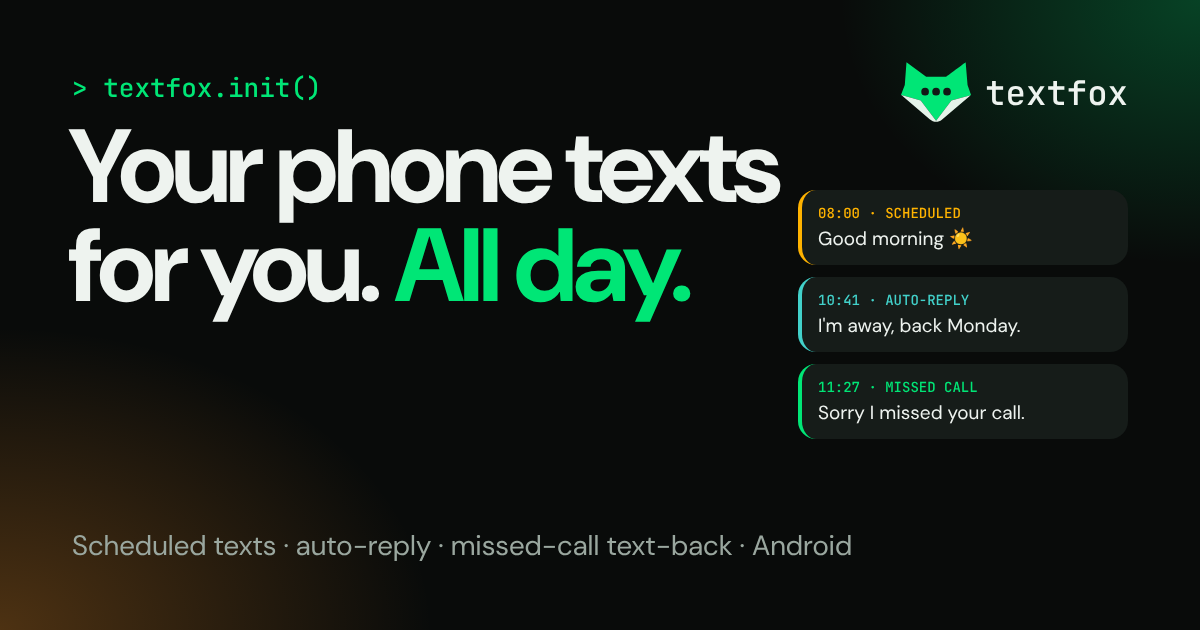
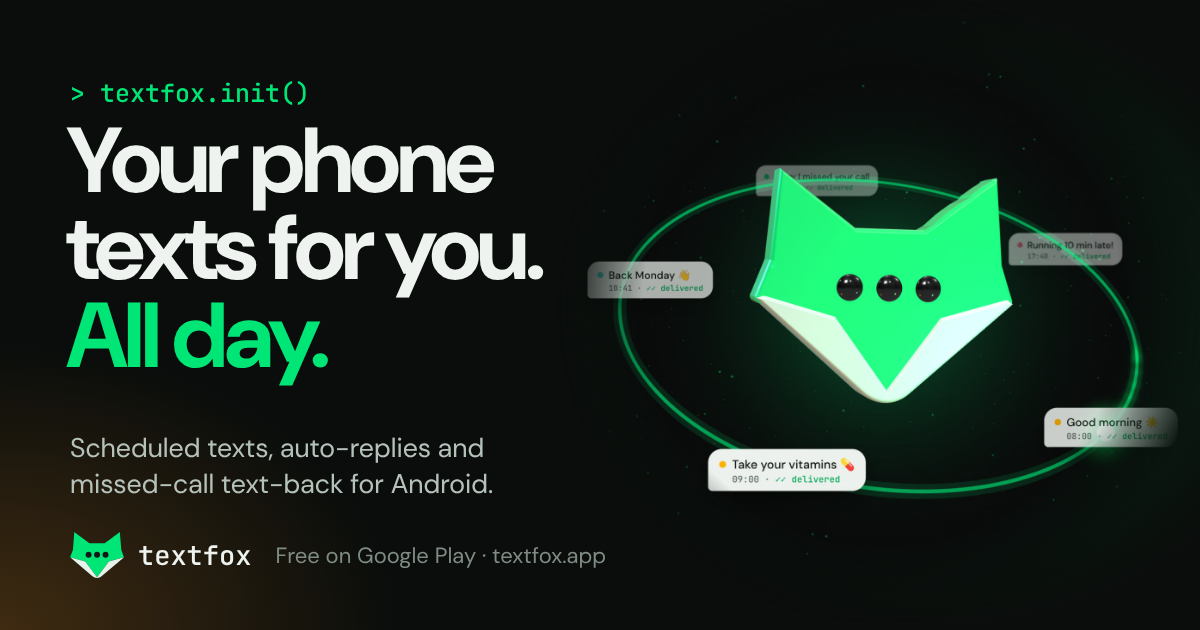
Website: new share image with the 3D fox; share band on every page
- Open Graph / X card image (1200x630) rebuilt from a 2x capture of the
  3D hero: headline left, the 3D fox with its orbit and texts right.
  tools/og.html + tools/og-fox.jpg are the source.
- A 'share' band before the footer on all public pages: LinkedIn,
  Facebook, X, WhatsApp and email as plain links (no third-party
  scripts or tracking), the native share sheet where the browser has
  one, and a copy-link button with feedback.

Claude-Session: https://claude.ai/code/session_01EVGjfv8mY9U6L3GJSjga1s

diff --git a/website/tools/og.html b/website/tools/og.html
@@ -1,20 +1,19 @@
 <!doctype html><meta charset="utf-8">
+<!-- Open Graph image (1200×630). Render with: node tools/render-assets.js. og-fox.jpg is a 2× capture of the 3D hero. -->
 <style>
 @font-face{font-family:D;src:url(../public/assets/fonts/DMSans.woff2)}@font-face{font-family:M;src:url(../public/assets/fonts/JetBrainsMono.woff2)}
-body{margin:0;width:1200px;height:630px;overflow:hidden;background:radial-gradient(60% 80% at 0% 100%,rgba(255,150,40,.28),transparent 60%),radial-gradient(50% 70% at 100% 0%,rgba(0,230,118,.25),transparent 60%),#090B0A;color:#EEF3EF;font-family:D;position:relative}
-.k{position:absolute;left:72px;top:70px;font:500 26px M;color:#00E676}
-h1{position:absolute;left:68px;top:118px;margin:0;font:700 104px/.95 D;letter-spacing:-.045em;width:760px}
+body{margin:0;width:1200px;height:630px;overflow:hidden;background:radial-gradient(55% 75% at 0% 100%,rgba(255,150,40,.22),transparent 60%),radial-gradient(45% 70% at 78% 50%,rgba(0,230,118,.16),transparent 70%),#0A0D0B;color:#EEF3EF;font-family:D;position:relative}
+.fox{position:absolute;right:-8px;top:-10px;width:650px;height:auto;-webkit-mask-image:radial-gradient(closest-side,#000 74%,transparent 100%);mask-image:radial-gradient(closest-side,#000 74%,transparent 100%)}
+.k{position:absolute;left:70px;top:76px;font:500 25px M;color:#00E676}
+h1{position:absolute;left:66px;top:118px;margin:0;font:700 92px/.95 D;letter-spacing:-.045em;width:560px}
 h1 span{color:#00E676}
-p{position:absolute;left:72px;bottom:66px;margin:0;font:400 28px D;color:#9AA79F}
-.clock{position:absolute;right:-20px;bottom:-60px;font:200 330px/1 M;letter-spacing:-.06em;color:transparent;-webkit-text-stroke:2px rgba(0,230,118,.28)}
-.logo{position:absolute;right:72px;top:62px;display:flex;align-items:center;gap:14px;font:500 34px M}
-.logo svg{width:60px;height:60px}
-.log{position:absolute;right:72px;top:190px;width:330px;display:grid;gap:12px}
-.log div{background:#161C19;border-radius:18px;padding:14px 16px;font-size:19px;border-left:4px solid var(--c)}
-.log b{display:block;font:500 14px M;color:var(--c);margin-bottom:4px}
+.sub{position:absolute;left:70px;top:430px;margin:0;font:400 27px/1.35 D;color:#B5C2BA;width:520px}
+.foot{position:absolute;left:70px;bottom:52px;display:flex;align-items:center;gap:14px;font:500 27px M}
+.foot svg{width:54px;height:46px}
+.foot i{font-style:normal;color:#7E8C84;font:400 22px D;margin-left:10px}
 </style>
+<img class="fox" src="og-fox.jpg" alt="">
 <div class="k">&gt; textfox.init()</div>
 <h1>Your phone texts for you. <span>All day.</span></h1>
-<p>Scheduled texts · auto-reply · missed-call text-back · Android</p>
-<div class="logo"><svg viewBox="0 0 354.18 302.05" style="color:#00E676;width:70px;height:60px"><path d="M3.03,167.98l108.55,18.34c18.05,15.38,83.78,26.23,102.7,10.13l136.86-28.13c1.06-.91,4.45-1.28,2.38-4.76l-16.81-47.49L327.15,0l-99.48,74.39h-100.38S27.76,0,27.76,0l-8.57,116.06L.88,163.68c-.59.82-1,1.64-.84,2.21.25.92,1.26,1.41,3,2.1Z" fill="#121815"/><path d="M351.14,168.32c-2.58-.26-5.33.02-8.35,1.16l-87.63,24.45-77.62,102.84-77.78-102.9-88.64-24.75c-3.04-.85-5.58-1.5-8.09-1.14-1.73-.69-2.74-1.18-3-2.1-.16-.57.25-1.38.84-2.21l18.32-47.61L27.76,0l99.53,74.39h100.38S327.15,0,327.15,0l9.56,116.08,16.81,47.49c2.07,3.48-1.32,3.86-2.38,4.76Z" fill="currentColor"/><path d="M351.14,168.32l-144.48,122.95c-18.92,16.1-43.45,13.15-61.5-2.22L3.03,167.98c2.51-.36,5.05.29,8.09,1.14l88.64,24.75,77.78,102.9,77.62-102.84,87.63-24.45c3.03-1.14,5.77-1.43,8.35-1.16Z" fill="#E5F3EA"/><ellipse class="eye" cx="121.96" cy="149.52" rx="19.4" ry="19.4" fill="#121815"/><ellipse class="eye" cx="177.51" cy="149.52" rx="19.4" ry="19.4" fill="#121815"/><ellipse class="eye" cx="233.04" cy="149.52" rx="19.4" ry="19.4" fill="#121815"/></svg>textfox</div>
-<div class="log"><div style="--c:#FFB300"><b>08:00 · SCHEDULED</b>Good morning ☀</div><div style="--c:#42D1CA"><b>10:41 · AUTO-REPLY</b>I'm away, back Monday.</div><div style="--c:#00E676"><b>11:27 · MISSED CALL</b>Sorry I missed your call.</div></div>
+<p class="sub">Scheduled texts, auto-replies and missed-call text-back for Android.</p>
+<div class="foot"><svg viewBox="0 0 354.18 302.05" style="color:#00E676"><path d="M3.03,167.98l108.55,18.34c18.05,15.38,83.78,26.23,102.7,10.13l136.86-28.13c1.06-.91,4.45-1.28,2.38-4.76l-16.81-47.49L327.15,0l-99.48,74.39h-100.38S27.76,0,27.76,0l-8.57,116.06L.88,163.68c-.59.82-1,1.64-.84,2.21.25.92,1.26,1.41,3,2.1Z" fill="#121815"/><path d="M351.14,168.32c-2.58-.26-5.33.02-8.35,1.16l-87.63,24.45-77.62,102.84-77.78-102.9-88.64-24.75c-3.04-.85-5.58-1.5-8.09-1.14-1.73-.69-2.74-1.18-3-2.1-.16-.57.25-1.38.84-2.21l18.32-47.61L27.76,0l99.53,74.39h100.38S327.15,0,327.15,0l9.56,116.08,16.81,47.49c2.07,3.48-1.32,3.86-2.38,4.76Z" fill="currentColor"/><path d="M351.14,168.32l-144.48,122.95c-18.92,16.1-43.45,13.15-61.5-2.22L3.03,167.98c2.51-.36,5.05.29,8.09,1.14l88.64,24.75,77.78,102.9,77.62-102.84,87.63-24.45c3.03-1.14,5.77-1.43,8.35-1.16Z" fill="#E5F3EA"/><ellipse class="eye" cx="121.96" cy="149.52" rx="19.4" ry="19.4" fill="#121815"/><ellipse class="eye" cx="177.51" cy="149.52" rx="19.4" ry="19.4" fill="#121815"/><ellipse class="eye" cx="233.04" cy="149.52" rx="19.4" ry="19.4" fill="#121815"/></svg>textfox<i>Free on Google Play · textfox.app</i></div>

diff --git a/website/public/scheduled-text-messages.html b/website/public/scheduled-text-messages.html
@@ -15,7 +15,7 @@
 <link rel="manifest" href="/site.webmanifest">
 <link rel="preload" href="/assets/fonts/DMSans.woff2" as="font" type="font/woff2" crossorigin>
 <link rel="preload" href="/assets/fonts/JetBrainsMono.woff2" as="font" type="font/woff2" crossorigin>
-<link rel="stylesheet" href="/assets/site.css?v=86f45077">
+<link rel="stylesheet" href="/assets/site.css?v=80408b72">
 <meta property="og:type" content="website">
 <meta property="og:site_name" content="TextFox">
 <meta property="og:locale" content="en_US">
@@ -117,6 +117,15 @@
 <section class="final"><div class="wrap"><div class="panel"><h2>Set it up once.<br>It just runs.</h2>
 <p>Free for Android 8.0 and newer. Runs on your phone: no account, no ads, no tracking.</p><div class="cta-row"><a class="btn btn-g play-btn" href="https://play.google.com/apps/testing/app.kodekid.automatiq" rel="noopener"><svg width="18" height="20" viewBox="0 0 16 18" aria-hidden="true"><path d="M1 1.2v15.6c0 .5.5.8.9.6L15 9.6a.7.7 0 0 0 0-1.2L1.9.6C1.5.4 1 .7 1 1.2Z" fill="currentColor"/></svg><span><small>Get it on</small>Google Play</span></a></div><p class="cta-note">Early access on Google Play · Free · Android 8.0+</p></div></div></section>
 
+<section class="share" aria-labelledby="share-h"><div class="wrap"><div class="share-in">
+  <div><p class="kicker">// share</p><h2 class="h3" id="share-h">Know someone who's always running late?</h2><p class="body">Send them TextFox. It's free, and it might save them a lot of typing.</p></div>
+  <div class="share-btns">
+    <button class="sh sh-native" type="button" data-share="https://www.textfox.app/scheduled-text-messages" hidden><svg viewBox="0 0 24 24" aria-hidden="true" class="st"><path d="M12 3v12M7.5 7.5 12 3l4.5 4.5M5 12v7.5h14V12"/></svg>Share</button>
+    <a class="sh" style="--b:#0A66C2" href="https://www.linkedin.com/sharing/share-offsite/?url=https%3A%2F%2Fwww.textfox.app%2Fscheduled-text-messages" target="_blank" rel="noopener"><svg viewBox="0 0 24 24" aria-hidden="true"><path d="M4.98 3.5a2.5 2.5 0 1 1 0 5 2.5 2.5 0 0 1 0-5zM3 9h4v12H3zM9 9h3.8v1.7h.05c.53-1 1.83-2.05 3.77-2.05C20.6 8.65 21 11.3 21 14.7V21h-4v-5.6c0-1.34-.02-3.06-1.86-3.06-1.87 0-2.15 1.46-2.15 2.96V21H9z"/></svg>LinkedIn</a><a class="sh" style="--b:#1877F2" href="https://www.facebook.com/sharer/sharer.php?u=https%3A%2F%2Fwww.textfox.app%2Fscheduled-text-messages" target="_blank" rel="noopener"><svg viewBox="0 0 24 24" aria-hidden="true"><path d="M14 8.5V6.8c0-.8.5-1 .9-1H17V2.1L14.1 2C10.9 2 10.2 4.4 10.2 6v2.5H8V12h2.2v10H14V12h2.9l.4-3.5z"/></svg>Facebook</a><a class="sh" style="--b:#E7ECE9" href="https://x.com/intent/post?text=TextFox%20sends%20your%20texts%20for%20you%3A%20scheduled%20SMS%2C%20auto-replies%20and%20missed-call%20text-back%20for%20Android.&url=https%3A%2F%2Fwww.textfox.app%2Fscheduled-text-messages" target="_blank" rel="noopener"><svg viewBox="0 0 24 24" aria-hidden="true"><path d="M17.8 3H21l-7 8 8.2 10h-6.4l-5-6.2L5 21H1.8l7.5-8.6L1.5 3H8l4.5 5.7zm-1.1 16h1.8L7.3 4.9H5.4z"/></svg>X</a><a class="sh" style="--b:#25D366" href="https://wa.me/?text=TextFox%20sends%20your%20texts%20for%20you%3A%20scheduled%20SMS%2C%20auto-replies%20and%20missed-call%20text-back%20for%20Android.%20https%3A//www.textfox.app/scheduled-text-messages" target="_blank" rel="noopener"><svg viewBox="0 0 24 24" aria-hidden="true"><path d="M12 2a10 10 0 0 0-8.6 15.1L2 22l5-1.3A10 10 0 1 0 12 2zm5.2 13.9c-.2.6-1.3 1.2-1.8 1.2-.5.1-1 .2-3.3-.7-2.8-1.1-4.5-3.9-4.7-4.1-.1-.2-1.1-1.5-1.1-2.9s.7-2.1 1-2.4c.3-.3.6-.3.8-.3h.6c.2 0 .4 0 .6.5l.9 2.1c.1.2.1.4 0 .6l-.4.6-.4.4c-.1.2-.3.3-.1.6.2.3.8 1.3 1.7 2.1 1.2 1 2.1 1.3 2.4 1.5.3.1.5.1.6-.1l.9-1c.2-.3.4-.2.7-.1l2 1c.3.1.5.2.5.3.1.2.1.6-.1 1.2z"/></svg>WhatsApp</a>
+    <a class="sh" style="--b:#9AA79F" href="mailto:?subject=Have%20a%20look%20at%20TextFox&body=TextFox%20sends%20your%20texts%20for%20you%3A%20scheduled%20SMS%2C%20auto-replies%20and%20missed-call%20text-back%20for%20Android.%0A%0Ahttps%3A//www.textfox.app/scheduled-text-messages"><svg viewBox="0 0 24 24" aria-hidden="true" class="st"><rect x="3" y="5" width="18" height="14" rx="2.5"/><path d="m3.5 6.5 8.5 7 8.5-7"/></svg>Email</a>
+    <button class="sh" style="--b:#00E676" type="button" data-copy="https://www.textfox.app/scheduled-text-messages"><svg viewBox="0 0 24 24" aria-hidden="true" class="st"><path d="M10 14a4.5 4.5 0 0 0 6.4 0l3-3a4.5 4.5 0 0 0-6.4-6.4l-1 1"/><path d="M14 10a4.5 4.5 0 0 0-6.4 0l-3 3a4.5 4.5 0 0 0 6.4 6.4l1-1"/></svg><span>Copy link</span></button>
+  </div>
+</div></div></section>
 </main>
 <footer><div class="wrap">
   <div class="foot">
@@ -127,6 +136,6 @@
   </div>
   <div class="legal"><span>© 2026 TextFox · <a href="https://www.kodekid.app" rel="noopener">kodekid.app</a></span><span>No cookies. No tracking.</span></div>
 </div></footer>
-<script src="/assets/site.js?v=37aabe8c" defer></script>
+<script src="/assets/site.js?v=e24dd10f" defer></script>
 </body>
 </html>

diff --git a/website/public/missed-call-text-back.html b/website/public/missed-call-text-back.html
@@ -15,7 +15,7 @@
 <link rel="manifest" href="/site.webmanifest">
 <link rel="preload" href="/assets/fonts/DMSans.woff2" as="font" type="font/woff2" crossorigin>
 <link rel="preload" href="/assets/fonts/JetBrainsMono.woff2" as="font" type="font/woff2" crossorigin>
-<link rel="stylesheet" href="/assets/site.css?v=86f45077">
+<link rel="stylesheet" href="/assets/site.css?v=80408b72">
 <meta property="og:type" content="website">
 <meta property="og:site_name" content="TextFox">
 <meta property="og:locale" content="en_US">
@@ -96,6 +96,15 @@
 <section class="final"><div class="wrap"><div class="panel"><h2>Set it up once.<br>It just runs.</h2>
 <p>Free for Android 8.0 and newer. Runs on your phone: no account, no ads, no tracking.</p><div class="cta-row"><a class="btn btn-g play-btn" href="https://play.google.com/apps/testing/app.kodekid.automatiq" rel="noopener"><svg width="18" height="20" viewBox="0 0 16 18" aria-hidden="true"><path d="M1 1.2v15.6c0 .5.5.8.9.6L15 9.6a.7.7 0 0 0 0-1.2L1.9.6C1.5.4 1 .7 1 1.2Z" fill="currentColor"/></svg><span><small>Get it on</small>Google Play</span></a></div><p class="cta-note">Early access on Google Play · Free · Android 8.0+</p></div></div></section>
 
+<section class="share" aria-labelledby="share-h"><div class="wrap"><div class="share-in">
+  <div><p class="kicker">// share</p><h2 class="h3" id="share-h">Know someone who's always running late?</h2><p class="body">Send them TextFox. It's free, and it might save them a lot of typing.</p></div>
+  <div class="share-btns">
+    <button class="sh sh-native" type="button" data-share="https://www.textfox.app/missed-call-text-back" hidden><svg viewBox="0 0 24 24" aria-hidden="true" class="st"><path d="M12 3v12M7.5 7.5 12 3l4.5 4.5M5 12v7.5h14V12"/></svg>Share</button>
+    <a class="sh" style="--b:#0A66C2" href="https://www.linkedin.com/sharing/share-offsite/?url=https%3A%2F%2Fwww.textfox.app%2Fmissed-call-text-back" target="_blank" rel="noopener"><svg viewBox="0 0 24 24" aria-hidden="true"><path d="M4.98 3.5a2.5 2.5 0 1 1 0 5 2.5 2.5 0 0 1 0-5zM3 9h4v12H3zM9 9h3.8v1.7h.05c.53-1 1.83-2.05 3.77-2.05C20.6 8.65 21 11.3 21 14.7V21h-4v-5.6c0-1.34-.02-3.06-1.86-3.06-1.87 0-2.15 1.46-2.15 2.96V21H9z"/></svg>LinkedIn</a><a class="sh" style="--b:#1877F2" href="https://www.facebook.com/sharer/sharer.php?u=https%3A%2F%2Fwww.textfox.app%2Fmissed-call-text-back" target="_blank" rel="noopener"><svg viewBox="0 0 24 24" aria-hidden="true"><path d="M14 8.5V6.8c0-.8.5-1 .9-1H17V2.1L14.1 2C10.9 2 10.2 4.4 10.2 6v2.5H8V12h2.2v10H14V12h2.9l.4-3.5z"/></svg>Facebook</a><a class="sh" style="--b:#E7ECE9" href="https://x.com/intent/post?text=TextFox%20sends%20your%20texts%20for%20you%3A%20scheduled%20SMS%2C%20auto-replies%20and%20missed-call%20text-back%20for%20Android.&url=https%3A%2F%2Fwww.textfox.app%2Fmissed-call-text-back" target="_blank" rel="noopener"><svg viewBox="0 0 24 24" aria-hidden="true"><path d="M17.8 3H21l-7 8 8.2 10h-6.4l-5-6.2L5 21H1.8l7.5-8.6L1.5 3H8l4.5 5.7zm-1.1 16h1.8L7.3 4.9H5.4z"/></svg>X</a><a class="sh" style="--b:#25D366" href="https://wa.me/?text=TextFox%20sends%20your%20texts%20for%20you%3A%20scheduled%20SMS%2C%20auto-replies%20and%20missed-call%20text-back%20for%20Android.%20https%3A//www.textfox.app/missed-call-text-back" target="_blank" rel="noopener"><svg viewBox="0 0 24 24" aria-hidden="true"><path d="M12 2a10 10 0 0 0-8.6 15.1L2 22l5-1.3A10 10 0 1 0 12 2zm5.2 13.9c-.2.6-1.3 1.2-1.8 1.2-.5.1-1 .2-3.3-.7-2.8-1.1-4.5-3.9-4.7-4.1-.1-.2-1.1-1.5-1.1-2.9s.7-2.1 1-2.4c.3-.3.6-.3.8-.3h.6c.2 0 .4 0 .6.5l.9 2.1c.1.2.1.4 0 .6l-.4.6-.4.4c-.1.2-.3.3-.1.6.2.3.8 1.3 1.7 2.1 1.2 1 2.1 1.3 2.4 1.5.3.1.5.1.6-.1l.9-1c.2-.3.4-.2.7-.1l2 1c.3.1.5.2.5.3.1.2.1.6-.1 1.2z"/></svg>WhatsApp</a>
+    <a class="sh" style="--b:#9AA79F" href="mailto:?subject=Have%20a%20look%20at%20TextFox&body=TextFox%20sends%20your%20texts%20for%20you%3A%20scheduled%20SMS%2C%20auto-replies%20and%20missed-call%20text-back%20for%20Android.%0A%0Ahttps%3A//www.textfox.app/missed-call-text-back"><svg viewBox="0 0 24 24" aria-hidden="true" class="st"><rect x="3" y="5" width="18" height="14" rx="2.5"/><path d="m3.5 6.5 8.5 7 8.5-7"/></svg>Email</a>
+    <button class="sh" style="--b:#00E676" type="button" data-copy="https://www.textfox.app/missed-call-text-back"><svg viewBox="0 0 24 24" aria-hidden="true" class="st"><path d="M10 14a4.5 4.5 0 0 0 6.4 0l3-3a4.5 4.5 0 0 0-6.4-6.4l-1 1"/><path d="M14 10a4.5 4.5 0 0 0-6.4 0l-3 3a4.5 4.5 0 0 0 6.4 6.4l1-1"/></svg><span>Copy link</span></button>
+  </div>
+</div></div></section>
 </main>
 <footer><div class="wrap">
   <div class="foot">
@@ -106,6 +115,6 @@
   </div>
   <div class="legal"><span>© 2026 TextFox · <a href="https://www.kodekid.app" rel="noopener">kodekid.app</a></span><span>No cookies. No tracking.</span></div>
 </div></footer>
-<script src="/assets/site.js?v=37aabe8c" defer></script>
+<script src="/assets/site.js?v=e24dd10f" defer></script>
 </body>
 </html>

diff --git a/website/public/one-tap-text-widget.html b/website/public/one-tap-text-widget.html
@@ -15,7 +15,7 @@
 <link rel="manifest" href="/site.webmanifest">
 <link rel="preload" href="/assets/fonts/DMSans.woff2" as="font" type="font/woff2" crossorigin>
 <link rel="preload" href="/assets/fonts/JetBrainsMono.woff2" as="font" type="font/woff2" crossorigin>
-<link rel="stylesheet" href="/assets/site.css?v=86f45077">
+<link rel="stylesheet" href="/assets/site.css?v=80408b72">
 <meta property="og:type" content="website">
 <meta property="og:site_name" content="TextFox">
 <meta property="og:locale" content="en_US">
@@ -97,6 +97,15 @@
 <section class="final"><div class="wrap"><div class="panel"><h2>Set it up once.<br>It just runs.</h2>
 <p>Free for Android 8.0 and newer. Runs on your phone: no account, no ads, no tracking.</p><div class="cta-row"><a class="btn btn-g play-btn" href="https://play.google.com/apps/testing/app.kodekid.automatiq" rel="noopener"><svg width="18" height="20" viewBox="0 0 16 18" aria-hidden="true"><path d="M1 1.2v15.6c0 .5.5.8.9.6L15 9.6a.7.7 0 0 0 0-1.2L1.9.6C1.5.4 1 .7 1 1.2Z" fill="currentColor"/></svg><span><small>Get it on</small>Google Play</span></a></div><p class="cta-note">Early access on Google Play · Free · Android 8.0+</p></div></div></section>
 
+<section class="share" aria-labelledby="share-h"><div class="wrap"><div class="share-in">
+  <div><p class="kicker">// share</p><h2 class="h3" id="share-h">Know someone who's always running late?</h2><p class="body">Send them TextFox. It's free, and it might save them a lot of typing.</p></div>
+  <div class="share-btns">
+    <button class="sh sh-native" type="button" data-share="https://www.textfox.app/one-tap-text-widget" hidden><svg viewBox="0 0 24 24" aria-hidden="true" class="st"><path d="M12 3v12M7.5 7.5 12 3l4.5 4.5M5 12v7.5h14V12"/></svg>Share</button>
+    <a class="sh" style="--b:#0A66C2" href="https://www.linkedin.com/sharing/share-offsite/?url=https%3A%2F%2Fwww.textfox.app%2Fone-tap-text-widget" target="_blank" rel="noopener"><svg viewBox="0 0 24 24" aria-hidden="true"><path d="M4.98 3.5a2.5 2.5 0 1 1 0 5 2.5 2.5 0 0 1 0-5zM3 9h4v12H3zM9 9h3.8v1.7h.05c.53-1 1.83-2.05 3.77-2.05C20.6 8.65 21 11.3 21 14.7V21h-4v-5.6c0-1.34-.02-3.06-1.86-3.06-1.87 0-2.15 1.46-2.15 2.96V21H9z"/></svg>LinkedIn</a><a class="sh" style="--b:#1877F2" href="https://www.facebook.com/sharer/sharer.php?u=https%3A%2F%2Fwww.textfox.app%2Fone-tap-text-widget" target="_blank" rel="noopener"><svg viewBox="0 0 24 24" aria-hidden="true"><path d="M14 8.5V6.8c0-.8.5-1 .9-1H17V2.1L14.1 2C10.9 2 10.2 4.4 10.2 6v2.5H8V12h2.2v10H14V12h2.9l.4-3.5z"/></svg>Facebook</a><a class="sh" style="--b:#E7ECE9" href="https://x.com/intent/post?text=TextFox%20sends%20your%20texts%20for%20you%3A%20scheduled%20SMS%2C%20auto-replies%20and%20missed-call%20text-back%20for%20Android.&url=https%3A%2F%2Fwww.textfox.app%2Fone-tap-text-widget" target="_blank" rel="noopener"><svg viewBox="0 0 24 24" aria-hidden="true"><path d="M17.8 3H21l-7 8 8.2 10h-6.4l-5-6.2L5 21H1.8l7.5-8.6L1.5 3H8l4.5 5.7zm-1.1 16h1.8L7.3 4.9H5.4z"/></svg>X</a><a class="sh" style="--b:#25D366" href="https://wa.me/?text=TextFox%20sends%20your%20texts%20for%20you%3A%20scheduled%20SMS%2C%20auto-replies%20and%20missed-call%20text-back%20for%20Android.%20https%3A//www.textfox.app/one-tap-text-widget" target="_blank" rel="noopener"><svg viewBox="0 0 24 24" aria-hidden="true"><path d="M12 2a10 10 0 0 0-8.6 15.1L2 22l5-1.3A10 10 0 1 0 12 2zm5.2 13.9c-.2.6-1.3 1.2-1.8 1.2-.5.1-1 .2-3.3-.7-2.8-1.1-4.5-3.9-4.7-4.1-.1-.2-1.1-1.5-1.1-2.9s.7-2.1 1-2.4c.3-.3.6-.3.8-.3h.6c.2 0 .4 0 .6.5l.9 2.1c.1.2.1.4 0 .6l-.4.6-.4.4c-.1.2-.3.3-.1.6.2.3.8 1.3 1.7 2.1 1.2 1 2.1 1.3 2.4 1.5.3.1.5.1.6-.1l.9-1c.2-.3.4-.2.7-.1l2 1c.3.1.5.2.5.3.1.2.1.6-.1 1.2z"/></svg>WhatsApp</a>
+    <a class="sh" style="--b:#9AA79F" href="mailto:?subject=Have%20a%20look%20at%20TextFox&body=TextFox%20sends%20your%20texts%20for%20you%3A%20scheduled%20SMS%2C%20auto-replies%20and%20missed-call%20text-back%20for%20Android.%0A%0Ahttps%3A//www.textfox.app/one-tap-text-widget"><svg viewBox="0 0 24 24" aria-hidden="true" class="st"><rect x="3" y="5" width="18" height="14" rx="2.5"/><path d="m3.5 6.5 8.5 7 8.5-7"/></svg>Email</a>
+    <button class="sh" style="--b:#00E676" type="button" data-copy="https://www.textfox.app/one-tap-text-widget"><svg viewBox="0 0 24 24" aria-hidden="true" class="st"><path d="M10 14a4.5 4.5 0 0 0 6.4 0l3-3a4.5 4.5 0 0 0-6.4-6.4l-1 1"/><path d="M14 10a4.5 4.5 0 0 0-6.4 0l-3 3a4.5 4.5 0 0 0 6.4 6.4l1-1"/></svg><span>Copy link</span></button>
+  </div>
+</div></div></section>
 </main>
 <footer><div class="wrap">
   <div class="foot">
@@ -107,6 +116,6 @@
   </div>
   <div class="legal"><span>© 2026 TextFox · <a href="https://www.kodekid.app" rel="noopener">kodekid.app</a></span><span>No cookies. No tracking.</span></div>
 </div></footer>
-<script src="/assets/site.js?v=37aabe8c" defer></script>
+<script src="/assets/site.js?v=e24dd10f" defer></script>
 </body>
 </html>

diff --git a/website/public/auto-reply-sms.html b/website/public/auto-reply-sms.html
@@ -15,7 +15,7 @@
 <link rel="manifest" href="/site.webmanifest">
 <link rel="preload" href="/assets/fonts/DMSans.woff2" as="font" type="font/woff2" crossorigin>
 <link rel="preload" href="/assets/fonts/JetBrainsMono.woff2" as="font" type="font/woff2" crossorigin>
-<link rel="stylesheet" href="/assets/site.css?v=86f45077">
+<link rel="stylesheet" href="/assets/site.css?v=80408b72">
 <meta property="og:type" content="website">
 <meta property="og:site_name" content="TextFox">
 <meta property="og:locale" content="en_US">
@@ -98,6 +98,15 @@
 <section class="final"><div class="wrap"><div class="panel"><h2>Set it up once.<br>It just runs.</h2>
 <p>Free for Android 8.0 and newer. Runs on your phone: no account, no ads, no tracking.</p><div class="cta-row"><a class="btn btn-g play-btn" href="https://play.google.com/apps/testing/app.kodekid.automatiq" rel="noopener"><svg width="18" height="20" viewBox="0 0 16 18" aria-hidden="true"><path d="M1 1.2v15.6c0 .5.5.8.9.6L15 9.6a.7.7 0 0 0 0-1.2L1.9.6C1.5.4 1 .7 1 1.2Z" fill="currentColor"/></svg><span><small>Get it on</small>Google Play</span></a></div><p class="cta-note">Early access on Google Play · Free · Android 8.0+</p></div></div></section>
 
+<section class="share" aria-labelledby="share-h"><div class="wrap"><div class="share-in">
+  <div><p class="kicker">// share</p><h2 class="h3" id="share-h">Know someone who's always running late?</h2><p class="body">Send them TextFox. It's free, and it might save them a lot of typing.</p></div>
+  <div class="share-btns">
+    <button class="sh sh-native" type="button" data-share="https://www.textfox.app/auto-reply-sms" hidden><svg viewBox="0 0 24 24" aria-hidden="true" class="st"><path d="M12 3v12M7.5 7.5 12 3l4.5 4.5M5 12v7.5h14V12"/></svg>Share</button>
+    <a class="sh" style="--b:#0A66C2" href="https://www.linkedin.com/sharing/share-offsite/?url=https%3A%2F%2Fwww.textfox.app%2Fauto-reply-sms" target="_blank" rel="noopener"><svg viewBox="0 0 24 24" aria-hidden="true"><path d="M4.98 3.5a2.5 2.5 0 1 1 0 5 2.5 2.5 0 0 1 0-5zM3 9h4v12H3zM9 9h3.8v1.7h.05c.53-1 1.83-2.05 3.77-2.05C20.6 8.65 21 11.3 21 14.7V21h-4v-5.6c0-1.34-.02-3.06-1.86-3.06-1.87 0-2.15 1.46-2.15 2.96V21H9z"/></svg>LinkedIn</a><a class="sh" style="--b:#1877F2" href="https://www.facebook.com/sharer/sharer.php?u=https%3A%2F%2Fwww.textfox.app%2Fauto-reply-sms" target="_blank" rel="noopener"><svg viewBox="0 0 24 24" aria-hidden="true"><path d="M14 8.5V6.8c0-.8.5-1 .9-1H17V2.1L14.1 2C10.9 2 10.2 4.4 10.2 6v2.5H8V12h2.2v10H14V12h2.9l.4-3.5z"/></svg>Facebook</a><a class="sh" style="--b:#E7ECE9" href="https://x.com/intent/post?text=TextFox%20sends%20your%20texts%20for%20you%3A%20scheduled%20SMS%2C%20auto-replies%20and%20missed-call%20text-back%20for%20Android.&url=https%3A%2F%2Fwww.textfox.app%2Fauto-reply-sms" target="_blank" rel="noopener"><svg viewBox="0 0 24 24" aria-hidden="true"><path d="M17.8 3H21l-7 8 8.2 10h-6.4l-5-6.2L5 21H1.8l7.5-8.6L1.5 3H8l4.5 5.7zm-1.1 16h1.8L7.3 4.9H5.4z"/></svg>X</a><a class="sh" style="--b:#25D366" href="https://wa.me/?text=TextFox%20sends%20your%20texts%20for%20you%3A%20scheduled%20SMS%2C%20auto-replies%20and%20missed-call%20text-back%20for%20Android.%20https%3A//www.textfox.app/auto-reply-sms" target="_blank" rel="noopener"><svg viewBox="0 0 24 24" aria-hidden="true"><path d="M12 2a10 10 0 0 0-8.6 15.1L2 22l5-1.3A10 10 0 1 0 12 2zm5.2 13.9c-.2.6-1.3 1.2-1.8 1.2-.5.1-1 .2-3.3-.7-2.8-1.1-4.5-3.9-4.7-4.1-.1-.2-1.1-1.5-1.1-2.9s.7-2.1 1-2.4c.3-.3.6-.3.8-.3h.6c.2 0 .4 0 .6.5l.9 2.1c.1.2.1.4 0 .6l-.4.6-.4.4c-.1.2-.3.3-.1.6.2.3.8 1.3 1.7 2.1 1.2 1 2.1 1.3 2.4 1.5.3.1.5.1.6-.1l.9-1c.2-.3.4-.2.7-.1l2 1c.3.1.5.2.5.3.1.2.1.6-.1 1.2z"/></svg>WhatsApp</a>
+    <a class="sh" style="--b:#9AA79F" href="mailto:?subject=Have%20a%20look%20at%20TextFox&body=TextFox%20sends%20your%20texts%20for%20you%3A%20scheduled%20SMS%2C%20auto-replies%20and%20missed-call%20text-back%20for%20Android.%0A%0Ahttps%3A//www.textfox.app/auto-reply-sms"><svg viewBox="0 0 24 24" aria-hidden="true" class="st"><rect x="3" y="5" width="18" height="14" rx="2.5"/><path d="m3.5 6.5 8.5 7 8.5-7"/></svg>Email</a>
+    <button class="sh" style="--b:#00E676" type="button" data-copy="https://www.textfox.app/auto-reply-sms"><svg viewBox="0 0 24 24" aria-hidden="true" class="st"><path d="M10 14a4.5 4.5 0 0 0 6.4 0l3-3a4.5 4.5 0 0 0-6.4-6.4l-1 1"/><path d="M14 10a4.5 4.5 0 0 0-6.4 0l-3 3a4.5 4.5 0 0 0 6.4 6.4l1-1"/></svg><span>Copy link</span></button>
+  </div>
+</div></div></section>
 </main>
 <footer><div class="wrap">
   <div class="foot">
@@ -108,6 +117,6 @@
   </div>
   <div class="legal"><span>© 2026 TextFox · <a href="https://www.kodekid.app" rel="noopener">kodekid.app</a></span><span>No cookies. No tracking.</span></div>
 </div></footer>
-<script src="/assets/site.js?v=37aabe8c" defer></script>
+<script src="/assets/site.js?v=e24dd10f" defer></script>
 </body>
 </html>

diff --git a/website/public/index.html b/website/public/index.html
@@ -15,7 +15,7 @@
 <link rel="manifest" href="/site.webmanifest">
 <link rel="preload" href="/assets/fonts/DMSans.woff2" as="font" type="font/woff2" crossorigin>
 <link rel="preload" href="/assets/fonts/JetBrainsMono.woff2" as="font" type="font/woff2" crossorigin>
-<link rel="stylesheet" href="/assets/site.css?v=86f45077">
+<link rel="stylesheet" href="/assets/site.css?v=80408b72">
 <link rel="modulepreload" href="/assets/js/three/three.module.min.js">
 <link rel="modulepreload" href="/assets/js/three/SVGLoader.min.js">
 <link rel="modulepreload" href="/assets/js/three/RoomEnvironment.min.js">
@@ -243,6 +243,15 @@
   </div>
 </section>
 
+<section class="share" aria-labelledby="share-h"><div class="wrap"><div class="share-in">
+  <div><p class="kicker">// share</p><h2 class="h3" id="share-h">Know someone who's always running late?</h2><p class="body">Send them TextFox. It's free, and it might save them a lot of typing.</p></div>
+  <div class="share-btns">
+    <button class="sh sh-native" type="button" data-share="https://www.textfox.app/" hidden><svg viewBox="0 0 24 24" aria-hidden="true" class="st"><path d="M12 3v12M7.5 7.5 12 3l4.5 4.5M5 12v7.5h14V12"/></svg>Share</button>
+    <a class="sh" style="--b:#0A66C2" href="https://www.linkedin.com/sharing/share-offsite/?url=https%3A%2F%2Fwww.textfox.app%2F" target="_blank" rel="noopener"><svg viewBox="0 0 24 24" aria-hidden="true"><path d="M4.98 3.5a2.5 2.5 0 1 1 0 5 2.5 2.5 0 0 1 0-5zM3 9h4v12H3zM9 9h3.8v1.7h.05c.53-1 1.83-2.05 3.77-2.05C20.6 8.65 21 11.3 21 14.7V21h-4v-5.6c0-1.34-.02-3.06-1.86-3.06-1.87 0-2.15 1.46-2.15 2.96V21H9z"/></svg>LinkedIn</a><a class="sh" style="--b:#1877F2" href="https://www.facebook.com/sharer/sharer.php?u=https%3A%2F%2Fwww.textfox.app%2F" target="_blank" rel="noopener"><svg viewBox="0 0 24 24" aria-hidden="true"><path d="M14 8.5V6.8c0-.8.5-1 .9-1H17V2.1L14.1 2C10.9 2 10.2 4.4 10.2 6v2.5H8V12h2.2v10H14V12h2.9l.4-3.5z"/></svg>Facebook</a><a class="sh" style="--b:#E7ECE9" href="https://x.com/intent/post?text=TextFox%20sends%20your%20texts%20for%20you%3A%20scheduled%20SMS%2C%20auto-replies%20and%20missed-call%20text-back%20for%20Android.&url=https%3A%2F%2Fwww.textfox.app%2F" target="_blank" rel="noopener"><svg viewBox="0 0 24 24" aria-hidden="true"><path d="M17.8 3H21l-7 8 8.2 10h-6.4l-5-6.2L5 21H1.8l7.5-8.6L1.5 3H8l4.5 5.7zm-1.1 16h1.8L7.3 4.9H5.4z"/></svg>X</a><a class="sh" style="--b:#25D366" href="https://wa.me/?text=TextFox%20sends%20your%20texts%20for%20you%3A%20scheduled%20SMS%2C%20auto-replies%20and%20missed-call%20text-back%20for%20Android.%20https%3A//www.textfox.app/" target="_blank" rel="noopener"><svg viewBox="0 0 24 24" aria-hidden="true"><path d="M12 2a10 10 0 0 0-8.6 15.1L2 22l5-1.3A10 10 0 1 0 12 2zm5.2 13.9c-.2.6-1.3 1.2-1.8 1.2-.5.1-1 .2-3.3-.7-2.8-1.1-4.5-3.9-4.7-4.1-.1-.2-1.1-1.5-1.1-2.9s.7-2.1 1-2.4c.3-.3.6-.3.8-.3h.6c.2 0 .4 0 .6.5l.9 2.1c.1.2.1.4 0 .6l-.4.6-.4.4c-.1.2-.3.3-.1.6.2.3.8 1.3 1.7 2.1 1.2 1 2.1 1.3 2.4 1.5.3.1.5.1.6-.1l.9-1c.2-.3.4-.2.7-.1l2 1c.3.1.5.2.5.3.1.2.1.6-.1 1.2z"/></svg>WhatsApp</a>
+    <a class="sh" style="--b:#9AA79F" href="mailto:?subject=Have%20a%20look%20at%20TextFox&body=TextFox%20sends%20your%20texts%20for%20you%3A%20scheduled%20SMS%2C%20auto-replies%20and%20missed-call%20text-back%20for%20Android.%0A%0Ahttps%3A//www.textfox.app/"><svg viewBox="0 0 24 24" aria-hidden="true" class="st"><rect x="3" y="5" width="18" height="14" rx="2.5"/><path d="m3.5 6.5 8.5 7 8.5-7"/></svg>Email</a>
+    <button class="sh" style="--b:#00E676" type="button" data-copy="https://www.textfox.app/"><svg viewBox="0 0 24 24" aria-hidden="true" class="st"><path d="M10 14a4.5 4.5 0 0 0 6.4 0l3-3a4.5 4.5 0 0 0-6.4-6.4l-1 1"/><path d="M14 10a4.5 4.5 0 0 0-6.4 0l-3 3a4.5 4.5 0 0 0 6.4 6.4l1-1"/></svg><span>Copy link</span></button>
+  </div>
+</div></div></section>
 </main>
 <footer><div class="wrap">
   <div class="foot">
@@ -253,6 +262,6 @@
   </div>
   <div class="legal"><span>© 2026 TextFox · <a href="https://www.kodekid.app" rel="noopener">kodekid.app</a></span><span>No cookies. No tracking.</span></div>
 </div></footer>
-<script src="/assets/site.js?v=37aabe8c" defer></script><script src="/assets/js/gsap.min.js?v=fa1aeabc" defer></script><script src="/assets/js/ScrollTrigger.min.js?v=ecd3242f" defer></script><script src="/assets/js/SplitText.min.js?v=f59793f6" defer></script><script src="/assets/home.js?v=a8c84ef1" defer></script><script type="module" src="/assets/fox3d.js?v=17de4e48"></script>
+<script src="/assets/site.js?v=e24dd10f" defer></script><script src="/assets/js/gsap.min.js?v=fa1aeabc" defer></script><script src="/assets/js/ScrollTrigger.min.js?v=ecd3242f" defer></script><script src="/assets/js/SplitText.min.js?v=f59793f6" defer></script><script src="/assets/home.js?v=a8c84ef1" defer></script><script type="module" src="/assets/fox3d.js?v=17de4e48"></script>
 </body>
 </html>

diff --git a/website/public/about.html b/website/public/about.html
@@ -15,7 +15,7 @@
 <link rel="manifest" href="/site.webmanifest">
 <link rel="preload" href="/assets/fonts/DMSans.woff2" as="font" type="font/woff2" crossorigin>
 <link rel="preload" href="/assets/fonts/JetBrainsMono.woff2" as="font" type="font/woff2" crossorigin>
-<link rel="stylesheet" href="/assets/site.css?v=86f45077">
+<link rel="stylesheet" href="/assets/site.css?v=80408b72">
 <meta property="og:type" content="website">
 <meta property="og:site_name" content="TextFox">
 <meta property="og:locale" content="en_US">
@@ -88,6 +88,15 @@
 <section class="final"><div class="wrap"><div class="panel"><h2>Set it up once.<br>It just runs.</h2>
 <p>Free for Android 8.0 and newer. Runs on your phone: no account, no ads, no tracking.</p><div class="cta-row"><a class="btn btn-g play-btn" href="https://play.google.com/apps/testing/app.kodekid.automatiq" rel="noopener"><svg width="18" height="20" viewBox="0 0 16 18" aria-hidden="true"><path d="M1 1.2v15.6c0 .5.5.8.9.6L15 9.6a.7.7 0 0 0 0-1.2L1.9.6C1.5.4 1 .7 1 1.2Z" fill="currentColor"/></svg><span><small>Get it on</small>Google Play</span></a></div><p class="cta-note">Early access on Google Play · Free · Android 8.0+</p></div></div></section>
 
+<section class="share" aria-labelledby="share-h"><div class="wrap"><div class="share-in">
+  <div><p class="kicker">// share</p><h2 class="h3" id="share-h">Know someone who's always running late?</h2><p class="body">Send them TextFox. It's free, and it might save them a lot of typing.</p></div>
+  <div class="share-btns">
+    <button class="sh sh-native" type="button" data-share="https://www.textfox.app/about" hidden><svg viewBox="0 0 24 24" aria-hidden="true" class="st"><path d="M12 3v12M7.5 7.5 12 3l4.5 4.5M5 12v7.5h14V12"/></svg>Share</button>
+    <a class="sh" style="--b:#0A66C2" href="https://www.linkedin.com/sharing/share-offsite/?url=https%3A%2F%2Fwww.textfox.app%2Fabout" target="_blank" rel="noopener"><svg viewBox="0 0 24 24" aria-hidden="true"><path d="M4.98 3.5a2.5 2.5 0 1 1 0 5 2.5 2.5 0 0 1 0-5zM3 9h4v12H3zM9 9h3.8v1.7h.05c.53-1 1.83-2.05 3.77-2.05C20.6 8.65 21 11.3 21 14.7V21h-4v-5.6c0-1.34-.02-3.06-1.86-3.06-1.87 0-2.15 1.46-2.15 2.96V21H9z"/></svg>LinkedIn</a><a class="sh" style="--b:#1877F2" href="https://www.facebook.com/sharer/sharer.php?u=https%3A%2F%2Fwww.textfox.app%2Fabout" target="_blank" rel="noopener"><svg viewBox="0 0 24 24" aria-hidden="true"><path d="M14 8.5V6.8c0-.8.5-1 .9-1H17V2.1L14.1 2C10.9 2 10.2 4.4 10.2 6v2.5H8V12h2.2v10H14V12h2.9l.4-3.5z"/></svg>Facebook</a><a class="sh" style="--b:#E7ECE9" href="https://x.com/intent/post?text=TextFox%20sends%20your%20texts%20for%20you%3A%20scheduled%20SMS%2C%20auto-replies%20and%20missed-call%20text-back%20for%20Android.&url=https%3A%2F%2Fwww.textfox.app%2Fabout" target="_blank" rel="noopener"><svg viewBox="0 0 24 24" aria-hidden="true"><path d="M17.8 3H21l-7 8 8.2 10h-6.4l-5-6.2L5 21H1.8l7.5-8.6L1.5 3H8l4.5 5.7zm-1.1 16h1.8L7.3 4.9H5.4z"/></svg>X</a><a class="sh" style="--b:#25D366" href="https://wa.me/?text=TextFox%20sends%20your%20texts%20for%20you%3A%20scheduled%20SMS%2C%20auto-replies%20and%20missed-call%20text-back%20for%20Android.%20https%3A//www.textfox.app/about" target="_blank" rel="noopener"><svg viewBox="0 0 24 24" aria-hidden="true"><path d="M12 2a10 10 0 0 0-8.6 15.1L2 22l5-1.3A10 10 0 1 0 12 2zm5.2 13.9c-.2.6-1.3 1.2-1.8 1.2-.5.1-1 .2-3.3-.7-2.8-1.1-4.5-3.9-4.7-4.1-.1-.2-1.1-1.5-1.1-2.9s.7-2.1 1-2.4c.3-.3.6-.3.8-.3h.6c.2 0 .4 0 .6.5l.9 2.1c.1.2.1.4 0 .6l-.4.6-.4.4c-.1.2-.3.3-.1.6.2.3.8 1.3 1.7 2.1 1.2 1 2.1 1.3 2.4 1.5.3.1.5.1.6-.1l.9-1c.2-.3.4-.2.7-.1l2 1c.3.1.5.2.5.3.1.2.1.6-.1 1.2z"/></svg>WhatsApp</a>
+    <a class="sh" style="--b:#9AA79F" href="mailto:?subject=Have%20a%20look%20at%20TextFox&body=TextFox%20sends%20your%20texts%20for%20you%3A%20scheduled%20SMS%2C%20auto-replies%20and%20missed-call%20text-back%20for%20Android.%0A%0Ahttps%3A//www.textfox.app/about"><svg viewBox="0 0 24 24" aria-hidden="true" class="st"><rect x="3" y="5" width="18" height="14" rx="2.5"/><path d="m3.5 6.5 8.5 7 8.5-7"/></svg>Email</a>
+    <button class="sh" style="--b:#00E676" type="button" data-copy="https://www.textfox.app/about"><svg viewBox="0 0 24 24" aria-hidden="true" class="st"><path d="M10 14a4.5 4.5 0 0 0 6.4 0l3-3a4.5 4.5 0 0 0-6.4-6.4l-1 1"/><path d="M14 10a4.5 4.5 0 0 0-6.4 0l-3 3a4.5 4.5 0 0 0 6.4 6.4l1-1"/></svg><span>Copy link</span></button>
+  </div>
+</div></div></section>
 </main>
 <footer><div class="wrap">
   <div class="foot">
@@ -98,6 +107,6 @@
   </div>
   <div class="legal"><span>© 2026 TextFox · <a href="https://www.kodekid.app" rel="noopener">kodekid.app</a></span><span>No cookies. No tracking.</span></div>
 </div></footer>
-<script src="/assets/site.js?v=37aabe8c" defer></script>
+<script src="/assets/site.js?v=e24dd10f" defer></script>
 </body>
 </html>

diff --git a/website/public/assets/site.css b/website/public/assets/site.css
@@ -342,3 +342,19 @@ footer{border-top:1px solid var(--line);padding-block:56px calc(36px + env(safe-
 /* keep the stage (and its load burst) above the hero copy, also when it is reordered on phones */
 .hero-copy{position:relative;z-index:1}
 .fox-stage{z-index:2}
+/* share band */
+.share{padding-block:0 110px}
+.share-in{display:grid;grid-template-columns:minmax(0,.9fr) minmax(0,1.1fr);gap:28px 48px;align-items:center;padding:clamp(26px,4vw,44px);border-radius:32px;background:radial-gradient(70% 120% at 100% 0%,rgba(0,230,118,.12),transparent 60%),#0F1512}
+.share-in .h3{font-size:clamp(24px,2.6vw,32px);margin-bottom:8px;text-wrap:balance}
+.share-in .body{margin:0}
+.share-btns{display:flex;flex-wrap:wrap;gap:10px;justify-content:flex-end}
+.sh{display:inline-flex;align-items:center;gap:9px;border:0;border-radius:999px;padding:12px 16px;font:600 14.5px/1 var(--sans);color:var(--fg);text-decoration:none;cursor:pointer;
+  background:color-mix(in srgb,var(--b,#00E676) 16%,#141B17);transition:background .25s,translate .25s}
+.sh:hover{background:color-mix(in srgb,var(--b,#00E676) 30%,#141B17);translate:0 -2px}
+.sh svg{width:18px;height:18px;fill:var(--b,#00E676)}
+.sh svg.st{fill:none;stroke:var(--b,#00E676);stroke-width:2;stroke-linecap:round;stroke-linejoin:round}
+.sh-native{--b:#00E676;background:var(--green);color:var(--on-green)}
+.sh-native svg.st{stroke:var(--on-green)}
+.sh-native:hover{background:#3dffa0}
+.sh.copied{--b:#00E676;background:color-mix(in srgb,#00E676 34%,#141B17)}
+@media (max-width:900px){.share-in{grid-template-columns:1fr}.share-btns{justify-content:flex-start}}

diff --git a/website/public/assets/site.js b/website/public/assets/site.js
@@ -12,6 +12,19 @@
   const fitSteps = () => steps.forEach(ol => { const li = ol.lastElementChild; if (!li) return; const pad = parseFloat(getComputedStyle(li).paddingTop), n = parseFloat(getComputedStyle(li, '::before').height) || 48; ol.style.setProperty('--end', (ol.offsetHeight - li.offsetTop - pad - n / 2) + 'px'); });
   if (steps.length) { fitSteps(); addEventListener('resize', fitSteps); document.fonts && document.fonts.ready.then(fitSteps); }
 
+  // sharing: native share sheet where available, otherwise the plain links; copy-link with feedback
+  document.querySelectorAll('[data-share]').forEach(b => {
+    if (!navigator.share) return;
+    b.hidden = false;
+    b.addEventListener('click', () => navigator.share({title: document.title, text: 'TextFox sends your texts for you: scheduled SMS, auto-replies and missed-call text-back for Android.', url: b.dataset.share}).catch(() => {}));
+  });
+  document.querySelectorAll('[data-copy]').forEach(b => b.addEventListener('click', async () => {
+    const label = b.querySelector('span');
+    try { await navigator.clipboard.writeText(b.dataset.copy); label.textContent = 'Link copied ✓'; }
+    catch { label.textContent = b.dataset.copy; }
+    b.classList.add('copied'); setTimeout(() => { label.textContent = 'Copy link'; b.classList.remove('copied'); }, 2200);
+  }));
+
   // intro video: load and play only while visible; never autoplay under reduced motion
   const vid = $('video[data-lazy]');
   if (vid) {

diff --git a/website/public/privacy.html b/website/public/privacy.html
@@ -15,7 +15,7 @@
 <link rel="manifest" href="/site.webmanifest">
 <link rel="preload" href="/assets/fonts/DMSans.woff2" as="font" type="font/woff2" crossorigin>
 <link rel="preload" href="/assets/fonts/JetBrainsMono.woff2" as="font" type="font/woff2" crossorigin>
-<link rel="stylesheet" href="/assets/site.css?v=86f45077">
+<link rel="stylesheet" href="/assets/site.css?v=80408b72">
 <meta property="og:type" content="website">
 <meta property="og:site_name" content="TextFox">
 <meta property="og:locale" content="en_US">
@@ -147,6 +147,7 @@
 <p>textfox.app sets no cookies and uses no analytics, ads or third-party scripts. Fonts and scripts are served from our own domain. The site is hosted by Vercel, which processes standard server logs (such as IP address and browser type) to deliver and protect the site.</p>
 <h2>9. Contact</h2>
 <p>Lars Sohl, founder of kodekid.app — hello@larssohl.dk</p></div></div></section>
+
 </main>
 <footer><div class="wrap">
   <div class="foot">
@@ -157,6 +158,6 @@
   </div>
   <div class="legal"><span>© 2026 TextFox · <a href="https://www.kodekid.app" rel="noopener">kodekid.app</a></span><span>No cookies. No tracking.</span></div>
 </div></footer>
-<script src="/assets/site.js?v=37aabe8c" defer></script>
+<script src="/assets/site.js?v=e24dd10f" defer></script>
 </body>
 </html>

diff --git a/website/public/404.html b/website/public/404.html
@@ -15,7 +15,7 @@
 <link rel="manifest" href="/site.webmanifest">
 <link rel="preload" href="/assets/fonts/DMSans.woff2" as="font" type="font/woff2" crossorigin>
 <link rel="preload" href="/assets/fonts/JetBrainsMono.woff2" as="font" type="font/woff2" crossorigin>
-<link rel="stylesheet" href="/assets/site.css?v=86f45077">
+<link rel="stylesheet" href="/assets/site.css?v=80408b72">
 <meta property="og:type" content="website">
 <meta property="og:site_name" content="TextFox">
 <meta property="og:locale" content="en_US">
@@ -63,6 +63,7 @@
   </div>
 </section>
 
+
 </main>
 <footer><div class="wrap">
   <div class="foot">
@@ -73,6 +74,6 @@
   </div>
   <div class="legal"><span>© 2026 TextFox · <a href="https://www.kodekid.app" rel="noopener">kodekid.app</a></span><span>No cookies. No tracking.</span></div>
 </div></footer>
-<script src="/assets/site.js?v=37aabe8c" defer></script>
+<script src="/assets/site.js?v=e24dd10f" defer></script>
 </body>
 </html>

diff --git a/website/build.py b/website/build.py
@@ -7,7 +7,7 @@ Pages live in src/pages/*.html with a JSON header comment. Shared head, nav,
 footer, FAQ data and schema.org markup are generated here, so every page
 stays consistent. The output in public/ is committed and served as-is by Vercel.
 """
-import datetime, hashlib, html, json, pathlib, re
+import datetime, hashlib, html, json, pathlib, re, urllib.parse
 
 import markdown
 
@@ -206,6 +206,36 @@ def related(path):
     return f'<section class="section tight"><div class="wrap"><h2 class="h3">More of what TextFox does</h2><div class="related">{links}</div></div></section>'
 
 
+SHARE_TEXT = "TextFox sends your texts for you: scheduled SMS, auto-replies and missed-call text-back for Android."
+BRANDS = {
+    "linkedin": '<path d="M4.98 3.5a2.5 2.5 0 1 1 0 5 2.5 2.5 0 0 1 0-5zM3 9h4v12H3zM9 9h3.8v1.7h.05c.53-1 1.83-2.05 3.77-2.05C20.6 8.65 21 11.3 21 14.7V21h-4v-5.6c0-1.34-.02-3.06-1.86-3.06-1.87 0-2.15 1.46-2.15 2.96V21H9z"/>',
+    "facebook": '<path d="M14 8.5V6.8c0-.8.5-1 .9-1H17V2.1L14.1 2C10.9 2 10.2 4.4 10.2 6v2.5H8V12h2.2v10H14V12h2.9l.4-3.5z"/>',
+    "x": '<path d="M17.8 3H21l-7 8 8.2 10h-6.4l-5-6.2L5 21H1.8l7.5-8.6L1.5 3H8l4.5 5.7zm-1.1 16h1.8L7.3 4.9H5.4z"/>',
+    "whatsapp": '<path d="M12 2a10 10 0 0 0-8.6 15.1L2 22l5-1.3A10 10 0 1 0 12 2zm5.2 13.9c-.2.6-1.3 1.2-1.8 1.2-.5.1-1 .2-3.3-.7-2.8-1.1-4.5-3.9-4.7-4.1-.1-.2-1.1-1.5-1.1-2.9s.7-2.1 1-2.4c.3-.3.6-.3.8-.3h.6c.2 0 .4 0 .6.5l.9 2.1c.1.2.1.4 0 .6l-.4.6-.4.4c-.1.2-.3.3-.1.6.2.3.8 1.3 1.7 2.1 1.2 1 2.1 1.3 2.4 1.5.3.1.5.1.6-.1l.9-1c.2-.3.4-.2.7-.1l2 1c.3.1.5.2.5.3.1.2.1.6-.1 1.2z"/>',
+}
+
+
+def share(url):
+    q = urllib.parse.quote
+    links = [
+        ("linkedin", "LinkedIn", "#0A66C2", f"https://www.linkedin.com/sharing/share-offsite/?url={q(url, safe='')}"),
+        ("facebook", "Facebook", "#1877F2", f"https://www.facebook.com/sharer/sharer.php?u={q(url, safe='')}"),
+        ("x", "X", "#E7ECE9", f"https://x.com/intent/post?text={q(SHARE_TEXT)}&url={q(url, safe='')}"),
+        ("whatsapp", "WhatsApp", "#25D366", f"https://wa.me/?text={q(SHARE_TEXT + ' ' + url)}"),
+    ]
+    btns = "".join(f'<a class="sh" style="--b:{c}" href="{h}" target="_blank" rel="noopener"><svg viewBox="0 0 24 24" aria-hidden="true">{BRANDS[k]}</svg>{n}</a>' for k, n, c, h in links)
+    mail = f'mailto:?subject={q("Have a look at TextFox")}&body={q(SHARE_TEXT + chr(10) + chr(10) + url)}'
+    return f"""<section class="share" aria-labelledby="share-h"><div class="wrap"><div class="share-in">
+  <div><p class="kicker">// share</p><h2 class="h3" id="share-h">Know someone who's always running late?</h2><p class="body">Send them TextFox. It's free, and it might save them a lot of typing.</p></div>
+  <div class="share-btns">
+    <button class="sh sh-native" type="button" data-share="{url}" hidden><svg viewBox="0 0 24 24" aria-hidden="true" class="st"><path d="M12 3v12M7.5 7.5 12 3l4.5 4.5M5 12v7.5h14V12"/></svg>Share</button>
+    {btns}
+    <a class="sh" style="--b:#9AA79F" href="{mail}"><svg viewBox="0 0 24 24" aria-hidden="true" class="st"><rect x="3" y="5" width="18" height="14" rx="2.5"/><path d="m3.5 6.5 8.5 7 8.5-7"/></svg>Email</a>
+    <button class="sh" style="--b:#00E676" type="button" data-copy="{url}"><svg viewBox="0 0 24 24" aria-hidden="true" class="st"><path d="M10 14a4.5 4.5 0 0 0 6.4 0l3-3a4.5 4.5 0 0 0-6.4-6.4l-1 1"/><path d="M14 10a4.5 4.5 0 0 0-6.4 0l-3 3a4.5 4.5 0 0 0 6.4 6.4l1-1"/></svg><span>Copy link</span></button>
+  </div>
+</div></div></section>"""
+
+
 FINAL = f"""<section class="final"><div class="wrap"><div class="panel"><h2>Set it up once.<br>It just runs.</h2>
 <p>Free for Android 8.0 and newer. Runs on your phone: no account, no ads, no tracking.</p><div class="cta-row">{PLAY}</div><p class="cta-note">{CTA_NOTE}</p></div></div></section>"""
 
@@ -223,6 +253,7 @@ def render(meta, body):
 {nav(home)}
 <main id="main">
 {body}
+{"" if meta.get("noindex") or meta["path"] == "/privacy" else share(url)}
 </main>
 {FOOTER}
 {scripts}
